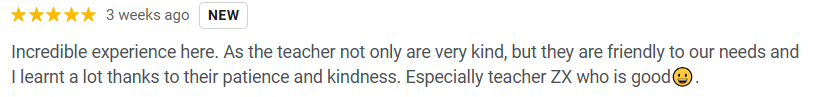
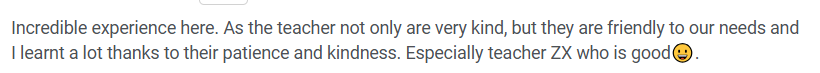
New Update

Changed region(s): [[0.0, 0.274, 0.9756, 0.9041], [0.0, 0.0548, 0.3049, 0.2466], [0.1524, 0.274, 0.1829, 0.3014]]

diff --git a/src/App.vue b/src/App.vue
@@ -13,6 +13,8 @@
           <a href="#skills" class="hover:text-[#8B4513] transition-colors">{{ $t('nav.skills') }}</a>
           <a href="#experience" class="hover:text-[#8B4513] transition-colors">{{ $t('nav.experience') }}</a>
           <a href="#workshops" class="hover:text-[#8B4513] transition-colors">{{ $t('nav.workshops') }}</a>
+          <a href="#outcomes" class="hover:text-[#8B4513] transition-colors">{{ $t('sections.outcomes') }}</a>
+          <a href="#reviews" class="hover:text-[#8B4513] transition-colors">{{ $t('sections.reviews') }}</a>
           <a href="#contact" class="hover:text-[#8B4513] transition-colors">{{ $t('nav.contact') }}</a>
         </div>
 
@@ -39,6 +41,7 @@
           <a href="#skills" @click="isMenuOpen = false">{{ $t('nav.skills') }}</a>
           <a href="#experience" @click="isMenuOpen = false">{{ $t('nav.experience') }}</a>
           <a href="#workshops" @click="isMenuOpen = false">{{ $t('nav.workshops') }}</a>
+          <a href="#outcomes" @click="isMenuOpen = false">{{ $t('sections.outcomes') }}</a>
           <a href="#contact" @click="isMenuOpen = false">{{ $t('nav.contact') }}</a>
           <button @click="toggleLanguage; isMenuOpen = false" class="text-left px-3 py-2 rounded-lg" :class="locale === 'en' ? 'bg-[#8B4513] text-white' : 'bg-amber-100 text-[#8B4513]'">
             <i class="fa-solid fa-globe mr-2"></i>{{ locale === 'en' ? 'English' : '中文' }}
@@ -95,26 +98,31 @@
     <!-- Stats Bar -->
     <section class="px-6 -mt-10 mb-16">
       <div class="max-w-4xl mx-auto">
-        <div class="bg-white rounded-2xl shadow-xl p-8 grid grid-cols-3 gap-8 text-center">
-<div class="p-4 group cursor-default relative">
-            <div class="text-4xl font-bold text-[#8B4513]">130+</div>
-            <div class="text-sm text-[#6B5B4F] mt-1">{{ $t('stats.students') }}</div>
-            <!-- Hover Tooltip -->
+        <div class="bg-white rounded-2xl shadow-xl p-6 sm:p-8 grid grid-cols-2 sm:grid-cols-4 gap-4 sm:gap-6 text-center">
+          <div class="p-3 sm:p-4 group cursor-default relative">
+            <div class="text-3xl sm:text-4xl font-bold text-[#8B4513]">130+</div>
+            <div class="text-xs sm:text-sm text-[#6B5B4F] mt-1">{{ $t('stats.students') }}</div>
             <div class="absolute bottom-full left-1/2 -translate-x-1/2 mb-2 px-3 py-2 bg-[#3D2B1F] text-white text-xs rounded-lg opacity-0 group-hover:opacity-100 transition-opacity pointer-events-none z-10">
               <div v-html="$t('stats.studentsTooltip')"></div>
             </div>
           </div>
-          <div class="p-4 border-x border-amber-100 group cursor-default relative">
-            <div class="text-4xl font-bold text-[#8B4513]">4×</div>
-            <div class="text-sm text-[#6B5B4F] mt-1">{{ $t('stats.champion') }}</div>
-            <!-- Hover Tooltip -->
+          <div class="p-3 sm:p-4 sm:border-x border-amber-100 group cursor-default relative">
+            <div class="text-3xl sm:text-4xl font-bold text-[#8B4513]">4×</div>
+            <div class="text-xs sm:text-sm text-[#6B5B4F] mt-1">{{ $t('stats.champion') }}</div>
             <div class="absolute bottom-full left-1/2 -translate-x-1/2 mb-2 px-3 py-2 bg-[#3D2B1F] text-white text-xs rounded-lg opacity-0 group-hover:opacity-100 transition-opacity pointer-events-none z-10">
               <div v-html="$t('stats.championTooltip')"></div>
             </div>
           </div>
-          <div class="p-4">
-            <div class="text-4xl font-bold text-[#8B4513]">5</div>
-            <div class="text-sm text-[#6B5B4F] mt-1">{{ $t('stats.workshops') }}</div>
+          <div class="p-3 sm:p-4 sm:border-x border-amber-100 group cursor-default relative">
+            <div class="text-3xl sm:text-4xl font-bold text-[#8B4513]">5</div>
+            <div class="text-xs sm:text-sm text-[#6B5B4F] mt-1">{{ $t('stats.workshops') }}</div>
+          </div>
+          <div class="p-3 sm:p-4 sm:border-x border-amber-100 group cursor-default relative">
+            <div class="text-3xl sm:text-4xl font-bold text-[#8B4513]">95%</div>
+            <div class="text-xs sm:text-sm text-[#6B5B4F] mt-1">{{ $t('stats.retention') }}</div>
+            <div class="absolute bottom-full left-1/2 -translate-x-1/2 mb-2 px-3 py-2 bg-[#3D2B1F] text-white text-xs rounded-lg opacity-0 group-hover:opacity-100 transition-opacity pointer-events-none z-10">
+              <div v-html="$t('stats.retentionTooltip')"></div>
+            </div>
           </div>
         </div>
       </div>
@@ -276,19 +284,19 @@
               <span class="px-3 py-1 bg-[#8B4513]/10 text-[#8B4513] text-sm font-semibold rounded-full">2026</span>
               <i class="fa-solid fa-robot text-amber-300 text-xl"></i>
             </div>
-            <h3 class="text-lg font-bold text-[#3D2B1F] mb-2">PictoBlox with AI</h3>
-            <p class="text-sm text-[#8B4513] mb-2">Anglo-Chinese School (Junior)</p>
-            <p class="text-sm text-[#6B5B4F]">Block-based coding with AI, facial & speech recognition.</p>
+            <h3 class="text-lg font-bold text-[#3D2B1F] mb-2">{{ $t('workshops.workshop1.title') }}</h3>
+            <p class="text-sm text-[#8B4513] mb-2">{{ $t('workshops.workshop1.school') }}</p>
+            <p class="text-sm text-[#6B5B4F]">{{ $t('workshops.workshop1.desc') }}</p>
           </div>
 
           <div class="bg-white rounded-2xl p-6 shadow-md hover:shadow-xl hover:-translate-y-1 transition-all border border-amber-100">
             <div class="flex items-center justify-between mb-4">
-              <span class="px-3 py-1 bg-amber-100 text-amber-600 text-sm font-semibold rounded-full">2025</span>
+              <span class="px-3 py-1 bg-[#8B4513]/10 text-[#8B4513] text-sm font-semibold rounded-full">2026</span>
               <i class="fa-solid fa-palette text-amber-300 text-xl"></i>
             </div>
-            <h3 class="text-lg font-bold text-[#3D2B1F] mb-2">Google Slides & Canva</h3>
-            <p class="text-sm text-[#8B4513] mb-2">Greenwood Primary School</p>
-            <p class="text-sm text-[#6B5B4F]">Creating engaging presentations with design tools.</p>
+            <h3 class="text-lg font-bold text-[#3D2B1F] mb-2">{{ $t('workshops.workshop2.title') }}</h3>
+            <p class="text-sm text-[#8B4513] mb-2">{{ $t('workshops.workshop2.school') }}</p>
+            <p class="text-sm text-[#6B5B4F]">{{ $t('workshops.workshop2.desc') }}</p>
           </div>
 
           <div class="bg-white rounded-2xl p-6 shadow-md hover:shadow-xl hover:-translate-y-1 transition-all border border-amber-100">
@@ -296,15 +304,74 @@
               <span class="px-3 py-1 bg-amber-100 text-amber-600 text-sm font-semibold rounded-full">2025</span>
               <i class="fa-solid fa-cubes text-amber-300 text-xl"></i>
             </div>
-            <h3 class="text-lg font-bold text-[#3D2B1F] mb-2">Minecraft Education</h3>
-            <p class="text-sm text-[#8B4513] mb-2">Anderson Primary School</p>
-            <p class="text-sm text-[#6B5B4F]">Designing sustainable eco-spaces in Ang Mo Kio.</p>
+            <h3 class="text-lg font-bold text-[#3D2B1F] mb-2">{{ $t('workshops.workshop3.title') }}</h3>
+            <p class="text-sm text-[#8B4513] mb-2">{{ $t('workshops.workshop3.school') }}</p>
+            <p class="text-sm text-[#6B5B4F]">{{ $t('workshops.workshop3.desc') }}</p>
           </div>
         </div>
       </div>
     </section>
 
-<!-- Reviews -->
+    <!-- Teaching Cases & Outcomes -->
+    <section id="outcomes" class="py-20 px-6 bg-[#F5F0E6]">
+      <div class="max-w-6xl mx-auto">
+        <div class="text-center mb-12">
+          <h2 class="text-4xl font-bold text-[#3D2B1F] mb-3">{{ $t('outcomes.title') }}</h2>
+          <p class="text-[#6B5B4F] max-w-2xl mx-auto">{{ $t('outcomes.subtitle') }}</p>
+        </div>
+
+        <div class="grid md:grid-cols-2 lg:grid-cols-3 gap-8">
+
+          <div class="bg-white rounded-2xl p-8 border border-amber-100 hover:shadow-xl transition-all">
+            <div class="text-4xl mb-4">👦</div>
+            <div class="text-sm uppercase tracking-widest text-[#8B4513] font-medium mb-1">Age 8 • Beginner</div>
+            <h3 class="text-xl font-bold text-[#3D2B1F] mb-3">{{ $t('outcomes.case1.title') }}</h3>
+            <p class="text-[#5D4E37] leading-relaxed">{{ $t('outcomes.case1.desc') }}</p>
+            <div class="mt-6 pt-6 border-t border-amber-200">
+              <div class="text-[#8B4513] text-sm font-medium">{{ $t('outcomes.result') }}</div>
+              <ul class="mt-3 space-y-2 text-sm text-[#5D4E37]">
+                <li class="flex items-start gap-2"><span class="text-green-600 mt-1">→</span> {{ $t('outcomes.case1.result1') }}</li>
+                <li class="flex items-start gap-2"><span class="text-green-600 mt-1">→</span> {{ $t('outcomes.case1.result2') }}</li>
+              </ul>
+            </div>
+          </div>
+
+          <div class="bg-white rounded-2xl p-8 border border-amber-100 hover:shadow-xl transition-all">
+            <div class="text-4xl mb-4">🤖</div>
+            <div class="text-sm uppercase tracking-widest text-[#8B4513] font-medium mb-1">Age 12–13 • Robotics</div>
+            <h3 class="text-xl font-bold text-[#3D2B1F] mb-3">{{ $t('outcomes.case2.title') }}</h3>
+            <p class="text-[#5D4E37] leading-relaxed">{{ $t('outcomes.case2.desc') }}</p>
+            <div class="mt-6 pt-6 border-t border-amber-200">
+              <div class="text-[#8B4513] text-sm font-medium">{{ $t('outcomes.result') }}</div>
+              <ul class="mt-3 space-y-2 text-sm text-[#5D4E37]">
+                <li class="flex items-start gap-2"><span class="text-green-600 mt-1">→</span> {{ $t('outcomes.case2.result1') }}</li>
+                <li class="flex items-start gap-2"><span class="text-green-600 mt-1">→</span> {{ $t('outcomes.case2.result2') }}</li>
+              </ul>
+            </div>
+          </div>
+
+          <div class="bg-white rounded-2xl p-8 border border-amber-100 hover:shadow-xl transition-all">
+            <div class="text-4xl mb-4">🧠</div>
+            <div class="text-sm uppercase tracking-widest text-[#8B4513] font-medium mb-1">Age 9–12 • AI Introduction</div>
+            <h3 class="text-xl font-bold text-[#3D2B1F] mb-3">{{ $t('outcomes.case3.title') }}</h3>
+            <p class="text-[#5D4E37] leading-relaxed">{{ $t('outcomes.case3.desc') }}</p>
+            <div class="mt-6 pt-6 border-t border-amber-200">
+              <div class="text-[#8B4513] text-sm font-medium">{{ $t('outcomes.result') }}</div>
+              <ul class="mt-3 space-y-2 text-sm text-[#5D4E37]">
+                <li class="flex items-start gap-2"><span class="text-green-600 mt-1">→</span> {{ $t('outcomes.case3.result1') }}</li>
+                <li class="flex items-start gap-2"><span class="text-green-600 mt-1">→</span> {{ $t('outcomes.case3.result2') }}</li>
+              </ul>
+            </div>
+          </div>
+        </div>
+
+        <div class="text-center mt-12 text-sm text-[#6B5B4F]">
+          * All cases are anonymised to protect student privacy.
+        </div>
+      </div>
+    </section>
+
+    <!-- Reviews -->
     <section id="reviews" class="py-20 px-6 bg-white">
       <div class="max-w-6xl mx-auto">
         <h2 class="text-4xl font-bold text-center text-[#3D2B1F] mb-12">{{ $t('reviews.title') }}</h2>
@@ -374,8 +441,8 @@
     </div>
 
     <!-- Section Navigation (Right Middle) -->
-    <div class="fixed right-6 top-1/2 -translate-y-1/2 z-40">
-      <div class="flex flex-col gap-3 bg-white/90 backdrop-blur-sm p-3 rounded-xl shadow-lg border border-amber-100">
+    <div class="fixed right-6 top-1/2 -translate-y-1/2 z-40 hidden md:block" :class="(isScrolling || isHovering) ? 'opacity-100' : 'opacity-0 pointer-events-none'" style="transition: opacity 0.3s ease;">
+      <div @mouseenter="isHovering = true" @mouseleave="isHovering = false" class="flex flex-col gap-3 bg-white/90 backdrop-blur-sm p-3 rounded-xl shadow-lg border border-amber-100">
         <a v-for="(section, idx) in sections" :key="section.id"
            :href="`#${section.id}`"
            class="group relative flex items-center justify-center"
@@ -415,17 +482,19 @@ const activeCategory = ref(0)
 const activeSubCategory = ref(0)
 const selectedImage = ref('')
 const activeSection = ref(0)
+const isScrolling = ref(false)
+const isHovering = ref(false)
+let scrollTimer: number
 
-const reviewImages = [review1, review2, review3, review4, review5]
-
-const sections = [
-  { id: 'about', label: 'About' },
-  { id: 'skills', label: 'Skills' },
-  { id: 'experience', label: 'Experience' },
-  { id: 'workshops', label: 'Workshops' },
-  { id: 'reviews', label: 'Feedback' },
-  { id: 'contact', label: 'Contact' }
-]
+const onScroll = () => {
+  if (!isHovering.value) {
+    isScrolling.value = true
+    clearTimeout(scrollTimer)
+    scrollTimer = setTimeout(() => {
+      isScrolling.value = false
+    }, 1000)
+  }
+}
 
 const scrollToTop = () => {
   window.scrollTo({ top: 0, behavior: 'smooth' })
@@ -452,11 +521,13 @@ const toggleLanguage = () => {
 
 onMounted(() => {
   window.addEventListener('scroll', updateActiveSection)
+  window.addEventListener('scroll', onScroll)
   updateActiveSection()
 })
 
 onUnmounted(() => {
   window.removeEventListener('scroll', updateActiveSection)
+  window.removeEventListener('scroll', onScroll)
 })
 
 const downloadResume = () => {
@@ -465,6 +536,18 @@ const downloadResume = () => {
   link.download = 'YourName_Resume.pdf'
   link.click()
 }
+
+const reviewImages = [review1, review2, review3, review4, review5]
+
+const sections = [
+  { id: 'about', label: 'About' },
+  { id: 'skills', label: 'Skills' },
+  { id: 'experience', label: 'Experience' },
+  { id: 'workshops', label: 'Workshops' },
+  { id: 'outcomes', label: 'Outcomes' },
+  { id: 'reviews', label: 'Feedback' },
+  { id: 'contact', label: 'Contact' }
+]
 
 const categories = [
   {

diff --git a/index.html b/index.html
@@ -3,7 +3,7 @@
   <head>
     <meta charset="UTF-8" />
     <link rel="icon" type="image/svg+xml" href="/favicon.svg" />
-    <meta name="viewport" content="width=device-width, initial-scale=1.0" />
+    <meta name="viewport" content="width=device-width, initial-scale=1.0, maximum-scale=1.0, user-scalable=no" />
     <title>Zheng Xuan | Coding & Robotics Educator</title>
   </head>
   <body>